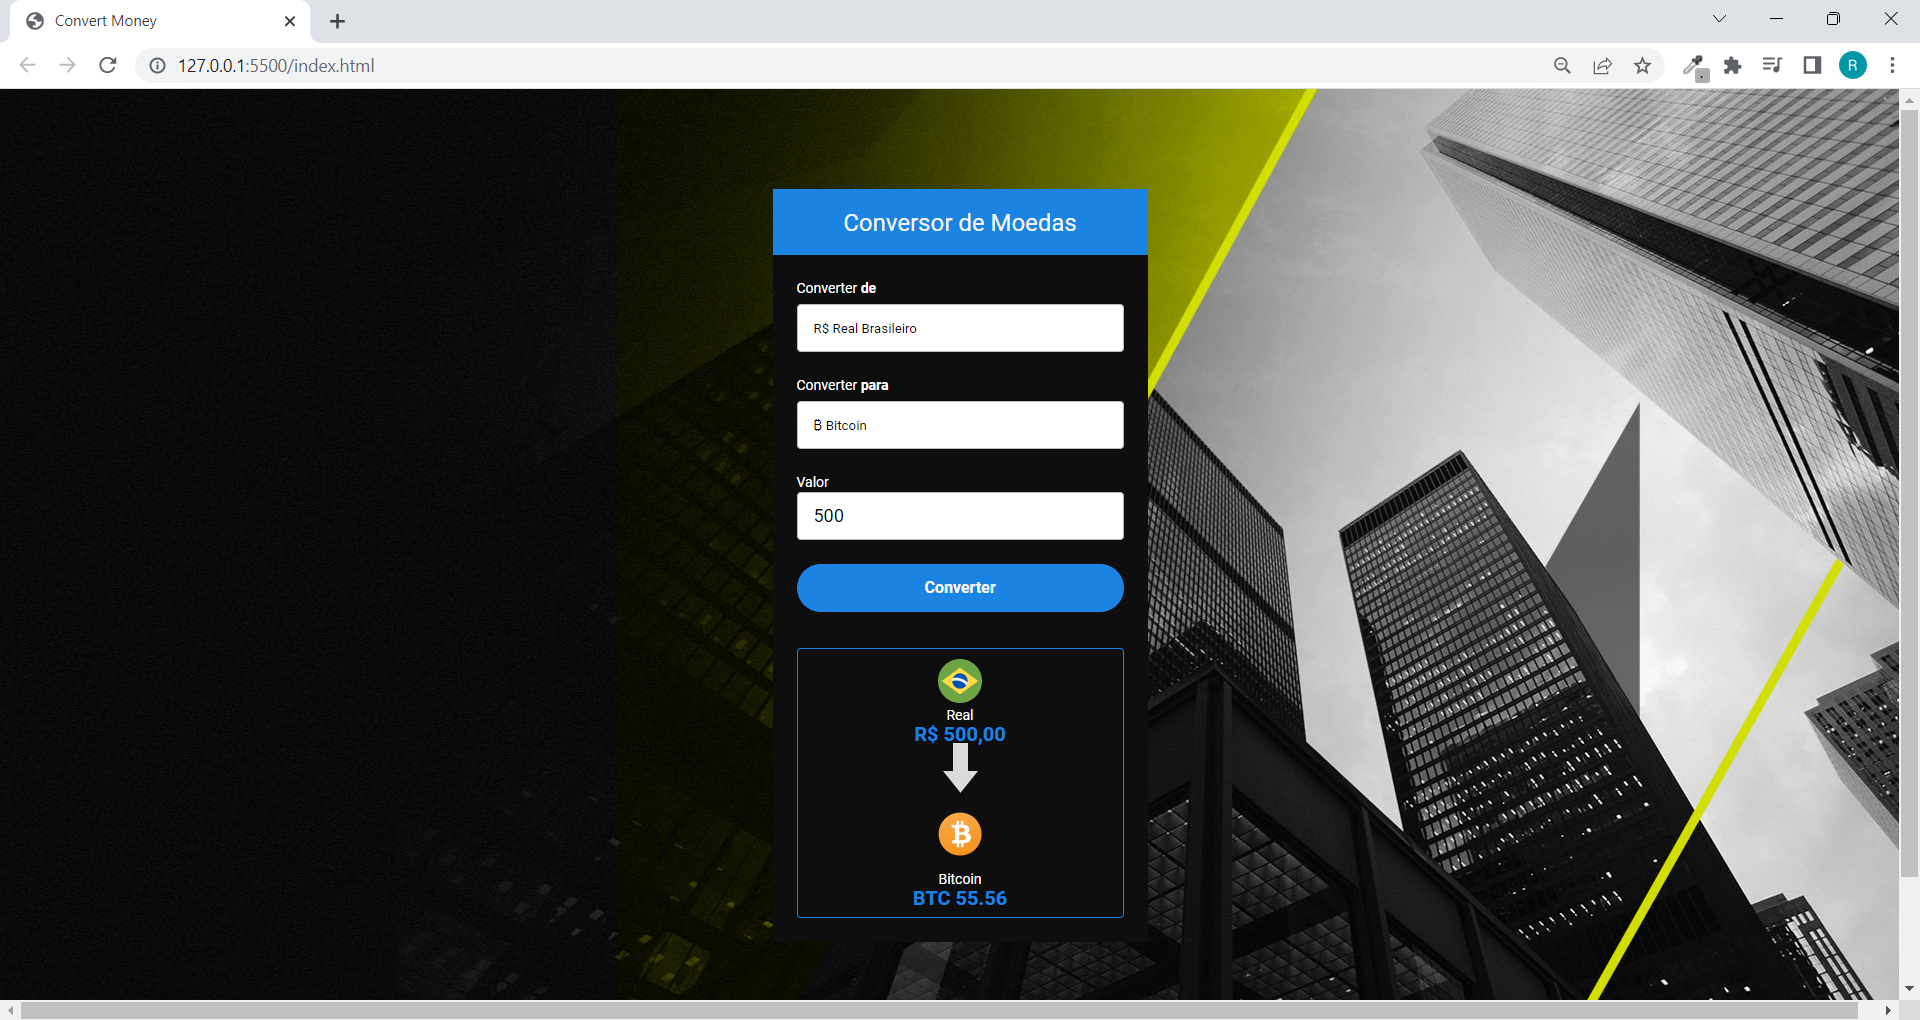
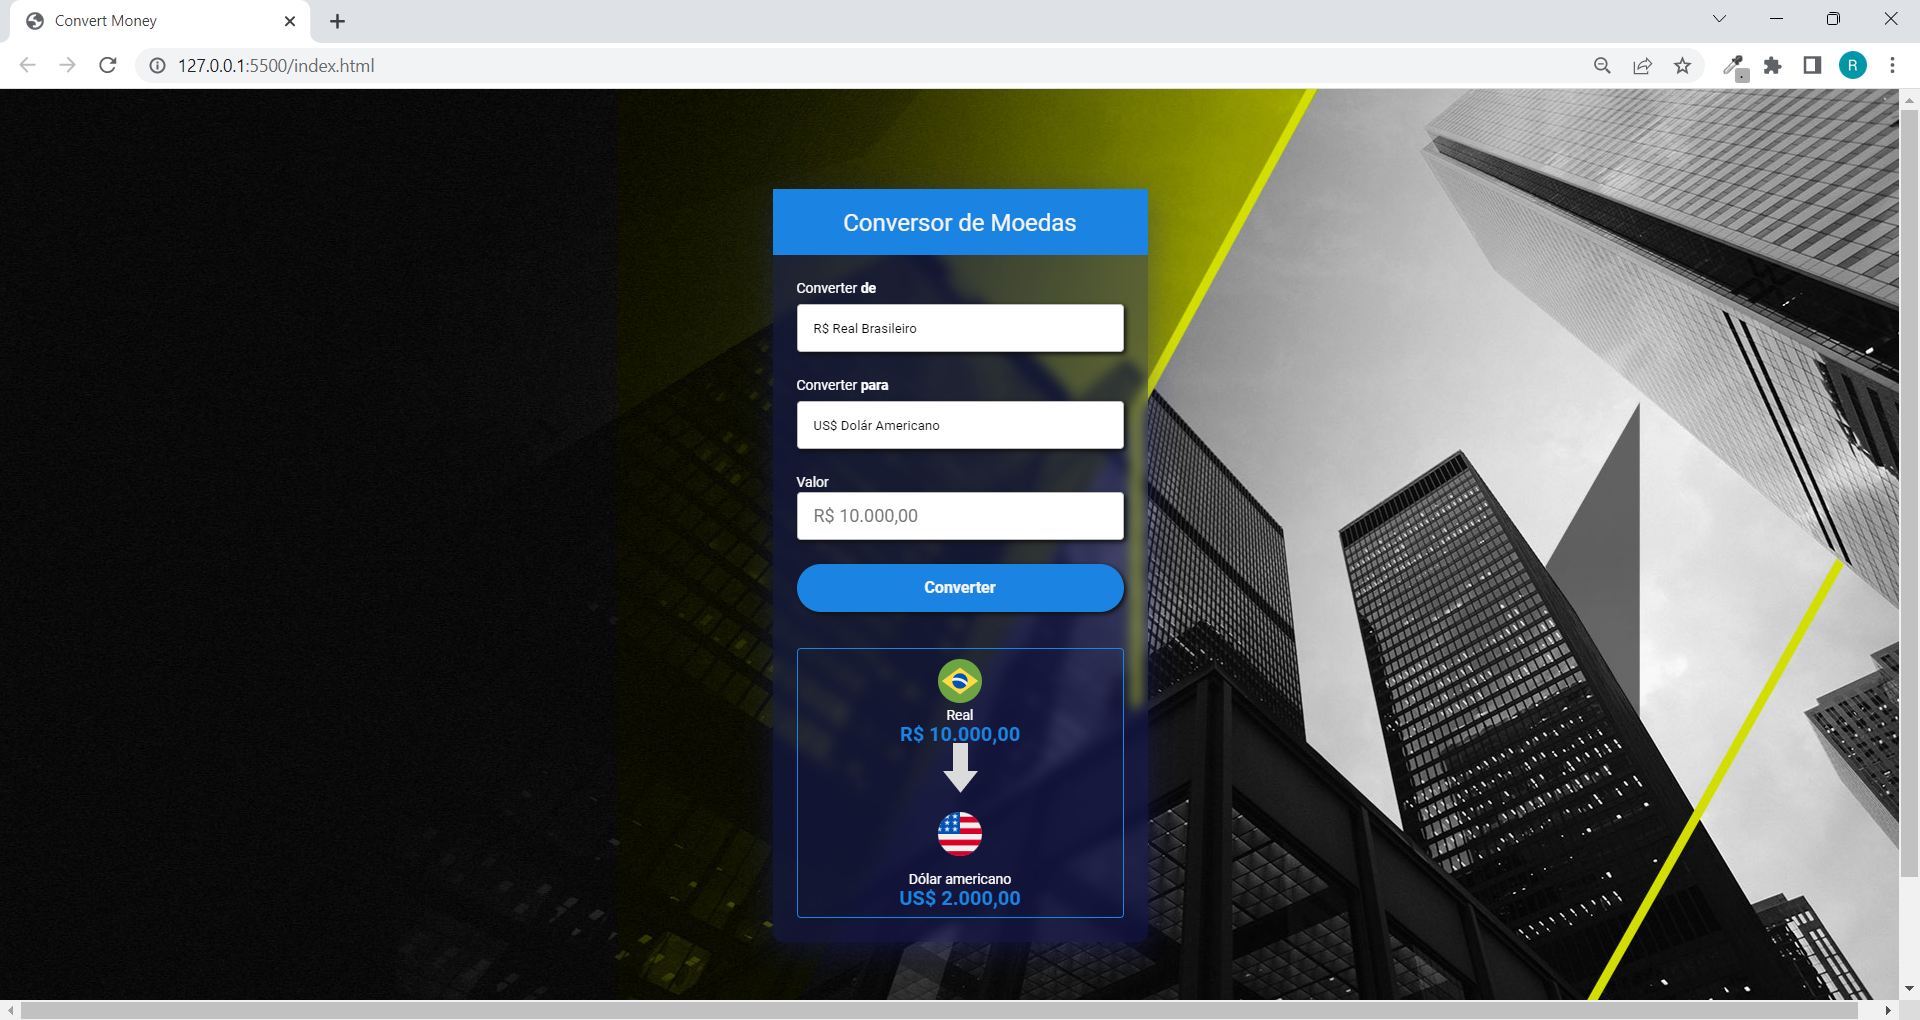
alt styles container css

Changed region(s): [[0.375, 0.2127, 0.625, 0.9422], [0.8125, 0.0608, 0.9375, 0.0912]]

diff --git a/styles.css b/styles.css
@@ -19,10 +19,15 @@ header {
 }
 
 .container {
+    background: rgba(31, 38, 135, 0.37);
+    box-shadow: 0 8px 32px 0 rgba(31, 38, 135, 0.37);
+    backdrop-filter: blur(6px);
+    -webkit-backdrop-filter: blur(6px);
+    border-radius: 10px;
+    border: none;
     width: 375px;
     margin: 0 auto;
     margin-top: 100px;
-    background-color: #0E0E0E;
 }
 
 h1 {
@@ -84,6 +89,8 @@ button {
     border: none;
     margin-top: 24px;
     margin-bottom: 36px;
+    box-shadow: 2px 2px 5px #0E0E0E;
+
 }
 
 button:hover {
